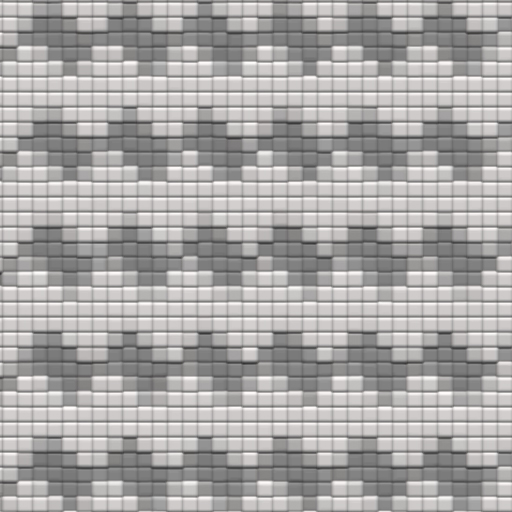
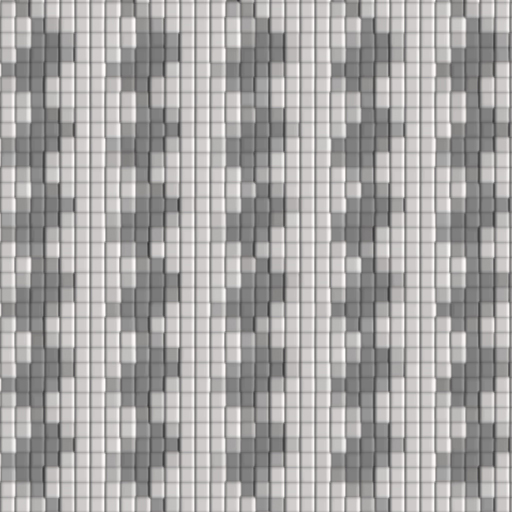
Various changes I have lost track

diff --git a/src/ass2/spec/Avatar.java b/src/ass2/spec/Avatar.java
@@ -23,11 +23,12 @@ public class Avatar {
 	
 	//textures
 	private Texture texture1;
+	private Texture texture2;
 
 	
 	private String textureFileCat = "src/ass2/images/cat.jpg";
+	private String textureFileCat2 = "src/ass2/images/cat2.jpg";
     private String textureExtCat = "jpg";
-
 
 	public Avatar(Terrain terrain){
 		this.terrain = terrain;
@@ -43,6 +44,7 @@ public class Avatar {
 		double myAngle = Camera.getMyAngle();
 		
         texture1 = new Texture(gl,textureFileCat,textureExtCat, true);
+        texture2 = new Texture(gl, textureFileCat2, textureExtCat, true);
 		
 		if(DEBUG) System.out.println("x: " + myPosition[0] + " y: " + myPosition[2] + " z: " + myPosition[1]);
 		
@@ -114,7 +116,7 @@ public class Avatar {
 		gl.glTexEnvf(GL2.GL_TEXTURE_ENV, GL2.GL_TEXTURE_ENV_MODE, GL2.GL_MODULATE); 
         glu.gluSphere(sphere, sphereRadius, SLICES, STACKS);
         gl.glDisable(GL2.GL_TEXTURE_GEN_S); 
-	    gl.glDisable(GL2.GL_TEXTURE_GEN_T);
+	    //gl.glDisable(GL2.GL_TEXTURE_GEN_T);
 
 		//Tail
 		gl.glPushMatrix();
@@ -126,7 +128,7 @@ public class Avatar {
 			glut.glutSolidCylinder(0.015, 0.4,SLICES,STACKS);
 	        glu.gluQuadricNormals(cylinder, GL2.GL_SMOOTH);
 	        glu.gluQuadricTexture(cylinder, true);
-	    	gl.glBindTexture(GL2.GL_TEXTURE_2D, texture1.getTextureId());
+	    	gl.glBindTexture(GL2.GL_TEXTURE_2D, texture2.getTextureId());
 			gl.glTexEnvf(GL2.GL_TEXTURE_ENV, GL2.GL_TEXTURE_ENV_MODE, GL2.GL_MODULATE);
 	        
 		gl.glPopMatrix();
@@ -136,6 +138,7 @@ public class Avatar {
 		//Upper Body
 		GLUquadric sphere1 = glu.gluNewQuadric();
 		glu.gluQuadricNormals(sphere1, GL2.GL_SMOOTH);
+    	gl.glBindTexture(GL2.GL_TEXTURE_2D, texture1.getTextureId());
 		gl.glTexEnvf(GL2.GL_TEXTURE_ENV, GL2.GL_TEXTURE_ENV_MODE, GL2.GL_MODULATE); 
 		glu.gluSphere(sphere1, sphere1Radius, SLICES, STACKS);
         gl.glDisable(GL2.GL_TEXTURE_GEN_S); 
@@ -145,7 +148,7 @@ public class Avatar {
 		gl.glPushMatrix();
 	    	gl.glEnable(GL2.GL_TEXTURE_GEN_S);
 		    gl.glEnable(GL2.GL_TEXTURE_GEN_T);
-	    	gl.glBindTexture(GL2.GL_TEXTURE_2D, texture1.getTextureId());
+	    	gl.glBindTexture(GL2.GL_TEXTURE_2D, texture2.getTextureId());
 			gl.glTexEnvf(GL2.GL_TEXTURE_ENV, GL2.GL_TEXTURE_ENV_MODE, GL2.GL_MODULATE); 
 			gl.glTranslated(0.05, sphere1Radius+0.025, -0.05);
 			gl.glRotated(45, 0, 1, 0);

diff --git a/src/ass2/spec/Camera.java b/src/ass2/spec/Camera.java
@@ -55,7 +55,6 @@ public class Camera implements GLEventListener{
 		glu.gluPerspective(80, aspect, 1, 20);
   
 		//Number took from teapotview week4 example code
-		//FUCKING MAGICAL CODE now i need to figure out the right number
 		//gluLookAt(eyeX, eyeY, eyeZ, centerX, centerY, centerZ, upX, upY, upZ)
 
 		myRotation[0] = Math.sin(myAngle);
@@ -150,14 +149,19 @@ public class Camera implements GLEventListener{
 		viewY -= 0.15;
 	}
 
+	/*
 	public void keyA(){
-		myPosition[0] += 0.15; 
+		myAngle += -0.1;
+		myRotation[0] = Math.sin(myAngle);
+		myRotation[1] = -Math.cos(myAngle);
 	}
 
 	public void keyD(){
-		myPosition[0] -= 0.15;
+		myAngle += 0.1;
+		myRotation[0] = Math.sin(myAngle);
+		myRotation[1] = -Math.cos(myAngle);
 	}
-
+	*/
 
 	public void lightingForTorch(GL2 gl){
 		// Light property vectors.

diff --git a/src/ass2/spec/KeyboardListener.java b/src/ass2/spec/KeyboardListener.java
@@ -62,7 +62,7 @@ public class KeyboardListener implements KeyListener, MouseMotionListener{
 			camera.keyS();
 			break;
 
-		case KeyEvent.VK_A:
+		/*case KeyEvent.VK_A:
 			if(DEBUG) System.out.println("Key: A");
 			camera.keyA();
 			break;
@@ -70,7 +70,7 @@ public class KeyboardListener implements KeyListener, MouseMotionListener{
 		case KeyEvent.VK_D:
 			if(DEBUG) System.out.println("Key: D");
 			camera.keyD();
-			break;
+			break;*/
 			
 		case KeyEvent.VK_1:
 			if(!DEBUG) System.out.println("Key: 1" + torch);
@@ -79,7 +79,10 @@ public class KeyboardListener implements KeyListener, MouseMotionListener{
 			} else {
 				torch = false;
 			}
+		case KeyEvent.VK_2:
+			
 		}
+			
 	}
 
 	public boolean getTorch(){
